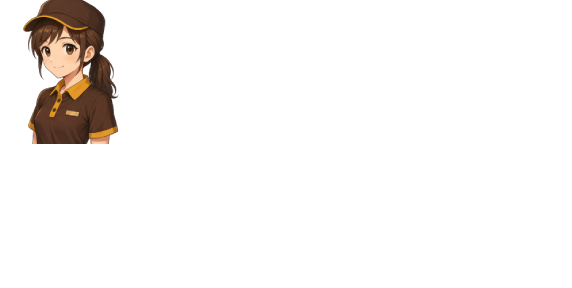
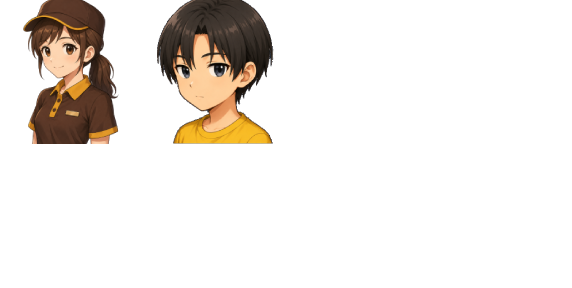
feat: v5.1

Changed region(s): [[0.2675, 0.0, 0.4755, 0.5]]

diff --git a/js/plugins/AutoPlayerFace.js b/js/plugins/AutoPlayerFace.js
@@ -1,0 +1,209 @@
+/*:
+ * @target MZ
+ * @plugindesc 自動切換玩家名稱、頭貼、行走圖
+ * @author ChatGPT
+ *
+ * @help
+ * 當對話名稱為 \N[1] 時，
+ * 自動根據「玩家角色」變數切換頭貼。
+ *
+ * 同時遊戲啟動時會自動：
+ * - 更新玩家名稱
+ * - 更新玩家頭貼
+ * - 更新玩家行走圖
+ *
+ * -----------------------------------
+ * 變數名稱：
+ * 玩家角色
+ *
+ * 變數值：
+ * 0 = 男主
+ * 1 = 女主
+ * -----------------------------------
+ */
+
+(() => {
+
+    //==============================
+    // 變數名稱
+    //==============================
+    const PLAYER_VARIABLE_NAME = "玩家角色";
+
+    //==============================
+    // 玩家角色設定
+    //==============================
+    const FACE_CONFIG = {
+
+        // 男主
+        0: {
+
+            // 玩家名稱
+            playerName: "小羲",
+
+            // 對話頭貼
+            faceName: "客製_頭像_1",
+            faceIndex: 1,
+
+            // 行走序列圖
+            playerAnimationSheet: "$小羲"
+        },
+
+        // 女主
+        1: {
+
+            // 玩家名稱
+            playerName: "小可",
+
+            // 對話頭貼
+            faceName: "客製_頭像",
+            faceIndex: 0,
+
+            // 行走序列圖
+            playerAnimationSheet: "$小可"
+        }
+    };
+
+    //==============================
+    // 取得變數ID
+    //==============================
+    function getVariableIdByName(variableName) {
+        const variables = $dataSystem.variables;
+
+        for (let i = 1; i < variables.length; i++) {
+            if (variables[i] === variableName) {
+                return i;
+            }
+        }
+
+        return 0;
+    }
+
+    //==============================
+    // 更新玩家資料
+    //==============================
+    function refreshPlayerData() {
+        if (!$gameVariables)
+            return;
+
+        const variableId =
+            getVariableIdByName(PLAYER_VARIABLE_NAME);
+
+        if (variableId <= 0) {
+            console.warn(
+                `[AutoPlayerFace] 找不到變數: ${PLAYER_VARIABLE_NAME}`
+            );
+            return;
+        }
+
+        const actorType =
+            $gameVariables.value(variableId);
+
+        const config =
+            FACE_CONFIG[actorType];
+
+        if (!config) {
+            console.warn(
+                `[AutoPlayerFace] 找不到角色設定: ${actorType}`
+            );
+            return;
+        }
+
+        const actor =
+            $gameActors.actor(1);
+
+        if (!actor)
+            return;
+
+        // 名稱
+        actor.setName(
+            config.playerName
+        );
+
+        // 頭貼
+        actor.setFaceImage(
+            config.faceName,
+            config.faceIndex
+        );
+
+        // 行走圖
+        actor.setCharacterImage(
+            config.playerAnimationSheet,
+            0
+        );
+
+        $gamePlayer.refresh();
+    }
+
+    //==============================
+    // 遊戲啟動時更新
+    //==============================
+    const _Scene_Map_start =
+        Scene_Map.prototype.start;
+
+    Scene_Map.prototype.start = function () {
+        _Scene_Map_start.call(this);
+
+        refreshPlayerData();
+    };
+
+    //==============================
+    // 攔截 Show Text
+    //==============================
+    const _Game_Interpreter_command101 =
+        Game_Interpreter.prototype.command101;
+
+    Game_Interpreter.prototype.command101 =
+        function (params) {
+            const faceName = params[0];
+            const faceIndex = params[1];
+            const background = params[2];
+            const positionType = params[3];
+            const speakerName = params[4];
+
+            let finalFaceName = faceName;
+            let finalFaceIndex = faceIndex;
+
+            const convertedName =
+                Window_Base.prototype.convertEscapeCharacters(
+                    speakerName
+                );
+
+            const actor =
+                $gameActors.actor(1);
+
+            if (speakerName === "\\N[1]") {
+                const variableId =
+                    getVariableIdByName(
+                        PLAYER_VARIABLE_NAME
+                    );
+
+                const actorType =
+                    $gameVariables.value(variableId);
+
+                const config =
+                    FACE_CONFIG[actorType];
+
+                if (config) {
+                    finalFaceName =
+                        config.faceName;
+
+                    finalFaceIndex =
+                        config.faceIndex;
+                }
+            }
+
+            const newParams = [
+                finalFaceName,
+                finalFaceIndex,
+                background,
+                positionType,
+                speakerName
+            ];
+
+            return _Game_Interpreter_command101.call(
+                this,
+                newParams
+            );
+        };
+
+})();

diff --git a/js/plugins.js b/js/plugins.js
@@ -3,5 +3,6 @@
 var $plugins =
 [
 {"name":"CustomMenuStatus","status":true,"description":"自訂主選單：隱藏右側指令欄與角色職業/HP/MP","parameters":{}},
-{"name":"DialogSFX","status":true,"description":"","parameters":{}}
+{"name":"DialogSFX","status":true,"description":"","parameters":{}},
+{"name":"AutoPlayerFace","status":true,"description":"自動替換 \\N[1] 對話頭貼","parameters":{"ActorVariableId":"1"}}
 ];
